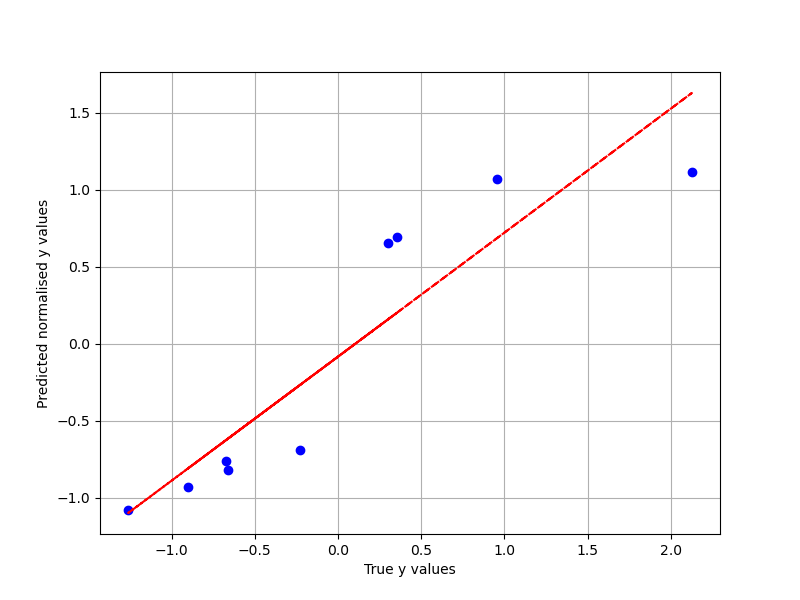
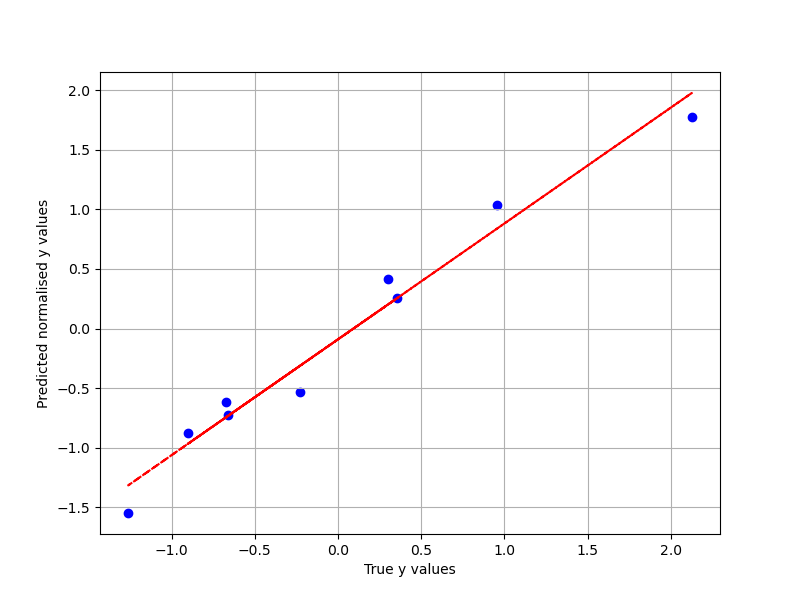
poprawione współczynniki KNN

diff --git a/PCR/PCR.py b/PCR/PCR.py
@@ -98,7 +98,7 @@ def RMSEc(X_train, Y_train):
         rmse_values.append(np.mean(rmse_fold))
     return rmse_values
 
-def MLR(X_train, X_val, Y_train, Y_val):
+def PCR(X_train, X_val, Y_train, Y_val):
     '''
         5. Zbudowanie modelu regresji liniowej dla istotnej liczby głównych składowych
     '''
@@ -132,30 +132,10 @@ def RMSE_plot(rmse_values):
     plt.grid()
     plt.show()
 
-def stats():
-    '''
-        6. Obliczenie R^2 i RMSE oddzielnie dla zbiorów kalibracyjnego i walidacyjnego
-    ''' 
-    pass
-
 if __name__=="__main__":
     '''
         Proszę, krótko zinterpretować wykres i uzyskane wyniki
     '''
-    try:
-        path = sys.argv[1]
-    except IndexError:
-        path = ''
-    finally:
-        if path == '-h' or path == '-help':
-            print('to use this program copy this line:')
-            print('python3 PCR.py [path to data]')
-        else:
-            data = data_loader(path)
-            y, X = data_setter(data)
-            X_pca, explained_variation = PCA_(X_matrix=X)
-            plot_pca_variance(explained_variation)
-            X_train, X_test, Y_train, Y_test = dataset_splitter(X, y)
-            rmse_list = RMSEc(X_train, Y_train)
-            RMSE_plot(rmse_list)
-            MLR(X_train, X_test, Y_train, Y_test)
+    FILE_PATH = './data/dane_leki.xlsx'
+
+    data = data_loader(FILE_PATH)

diff --git a/KNN/KNN.py b/KNN/KNN.py
@@ -48,7 +48,7 @@ def optimal_Knum_model(
         X_train: pd.DataFrame, 
         y_train: pd.DataFrame, 
         max_k: int = -1, 
-        n_splits: int = 6,
+        n_splits: int = 3,
         show_fig: bool = True,
         save_fig: bool = False, 
         distance: str = '',
@@ -78,7 +78,7 @@ def optimal_Knum_model(
     rmse_values: list[float] = []
     k_values: list[int] = []
 
-    k = int(np.sqrt(X_train.shape[0]))
+    k = 1
     lowest_rmse = 1
 
 
